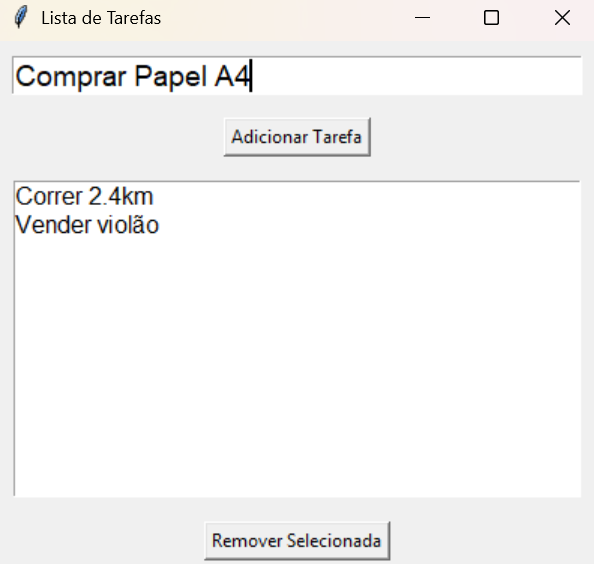
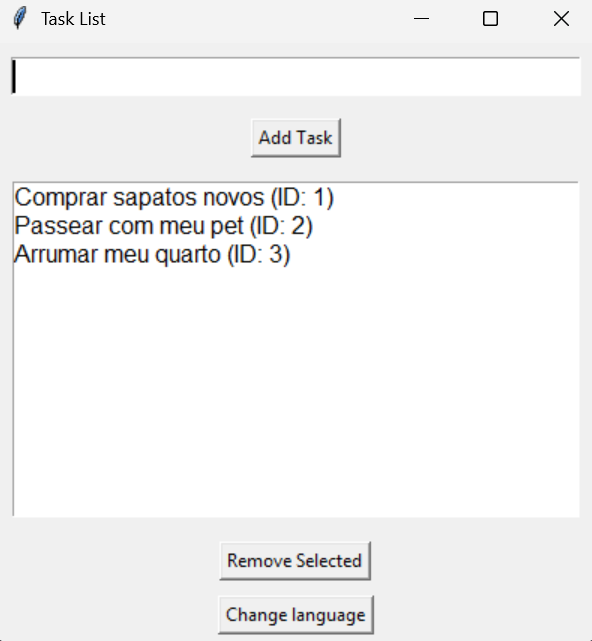
New screenshots (about version 2.0.1)

diff --git a/CHANGELOG.md b/CHANGELOG.md
@@ -9,6 +9,7 @@ This project adheres to [Semantic Versioning](https://semver.org/).
 ## [2.0.1] - 2025-08-16
 ### Changed
 - Altered the logic of todo_tkinter, to support switch language in real time.
+- New screenshots updated.
 
 ### Fixed
 - Now, when you change the language, the app will switch the texts automatically.
